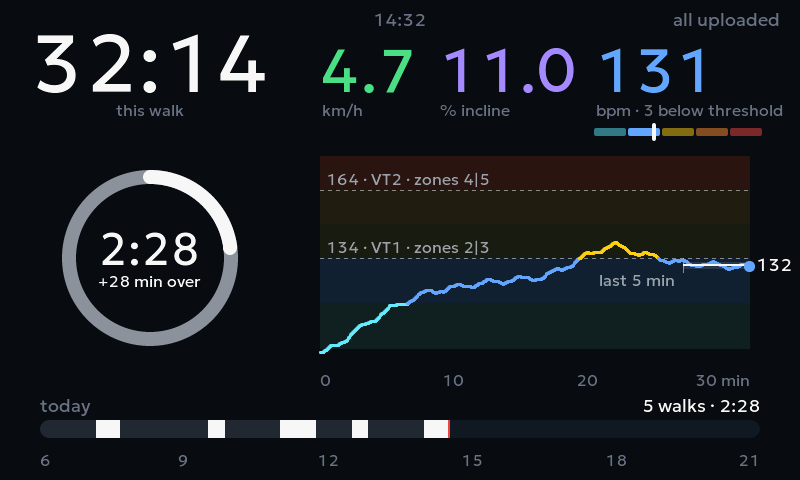
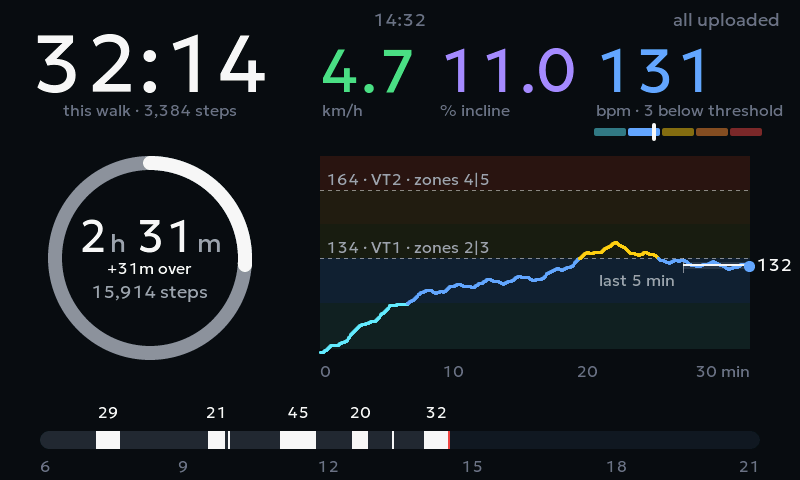
docs: refresh README screenshots and add a tagline
The screenshots now show today's changes: steps under the walk timer
and inside the ring, the day counted in minutes, each walk's minutes
over the day strip, and the goal-met ring in hours and minutes.
Rendered by the simulator with the example settings.

diff --git a/README.md b/README.md
@@ -1,5 +1,7 @@
 # TreadPulse
 
+### Work while you walk? You need this.
+
 Shows and records your treadmill walks and heart rate without a single tap: no squinting at the treadmill's own display, often tucked under the desk, and no phone app to open and connect to a heart rate strap. Step on and walk.
 
 A big, glanceable second screen for your treadmill: walking time, a daily goal ring and live heart rate zones that beep when you cross your thresholds. Works with any treadmill that speaks the standard Bluetooth fitness machine protocol (FTMS).
@@ -14,12 +16,12 @@ A big, glanceable second screen for your treadmill: walking time, a daily goal r
 - **Pulse chart of the walk** with your two thresholds and where your pulse sat over the last 5 minutes.
 - **Beeps** when the pulse crosses a threshold, and when the treadmill link drops mid-walk.
 - **Day strip:** when you walked today, with each walk's minutes over it.
-- **Every walk logged:** per-second data, segments at constant speed and incline, a summary. Uploaded to your own cloud storage as CSV.
+- **Every walk logged:** per-second data, segments at constant speed and incline, a summary. Uploaded to your own cloud storage as CSV. A walk under a minute (an accidental start) leaves no trace.
 - **No stale numbers:** grey means no fresh data from the treadmill or the strap.
 
-| Above the interval threshold | Daily goal met | After the walk |
+| Above the interval threshold | Daily goal met, in hours and minutes | After the walk |
 |---|---|---|
-| ![Pulse above the interval threshold](docs/images/interval.png) | ![Daily goal met, second lap](docs/images/goal-met.png) | ![After the walk, two walks waiting for upload](docs/images/after-walk.png) |
+| ![Pulse above the interval threshold](docs/images/interval.png) | ![Daily goal met: second lap, today's total as 2h 31m](docs/images/goal-met.png) | ![After the walk, two walks waiting for upload](docs/images/after-walk.png) |
 
 <sub>Screens rendered by the built-in simulator with the example settings.</sub>
 
